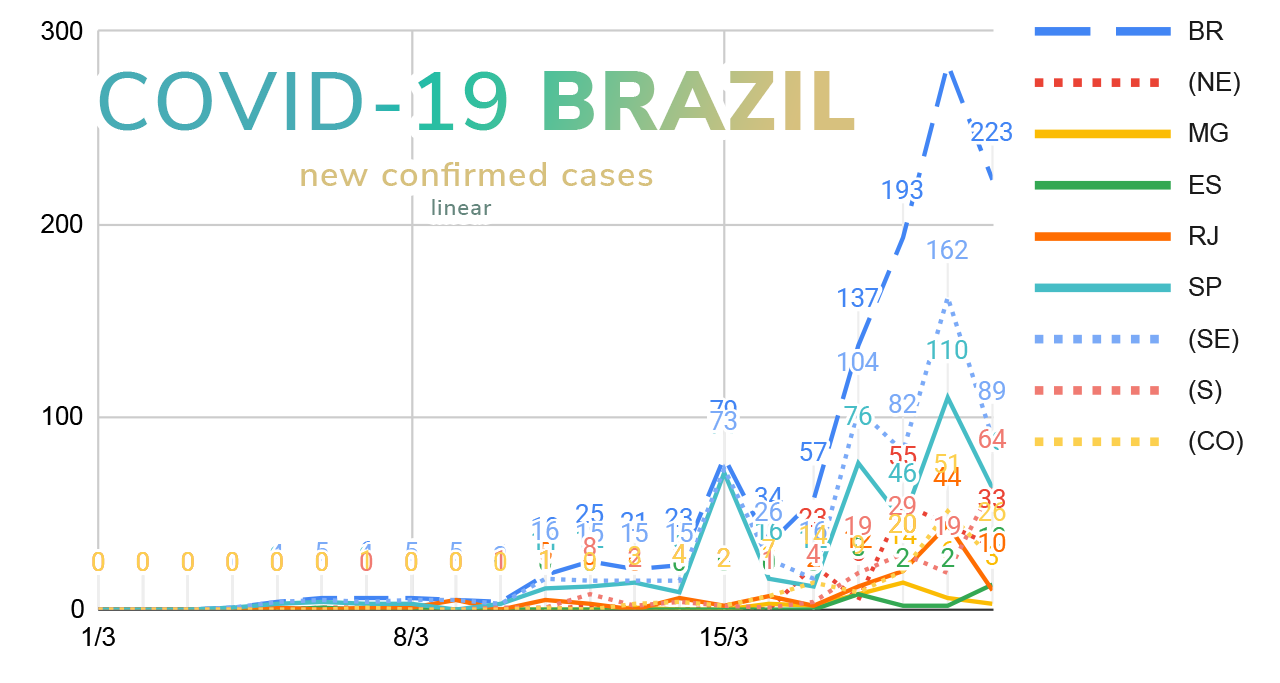
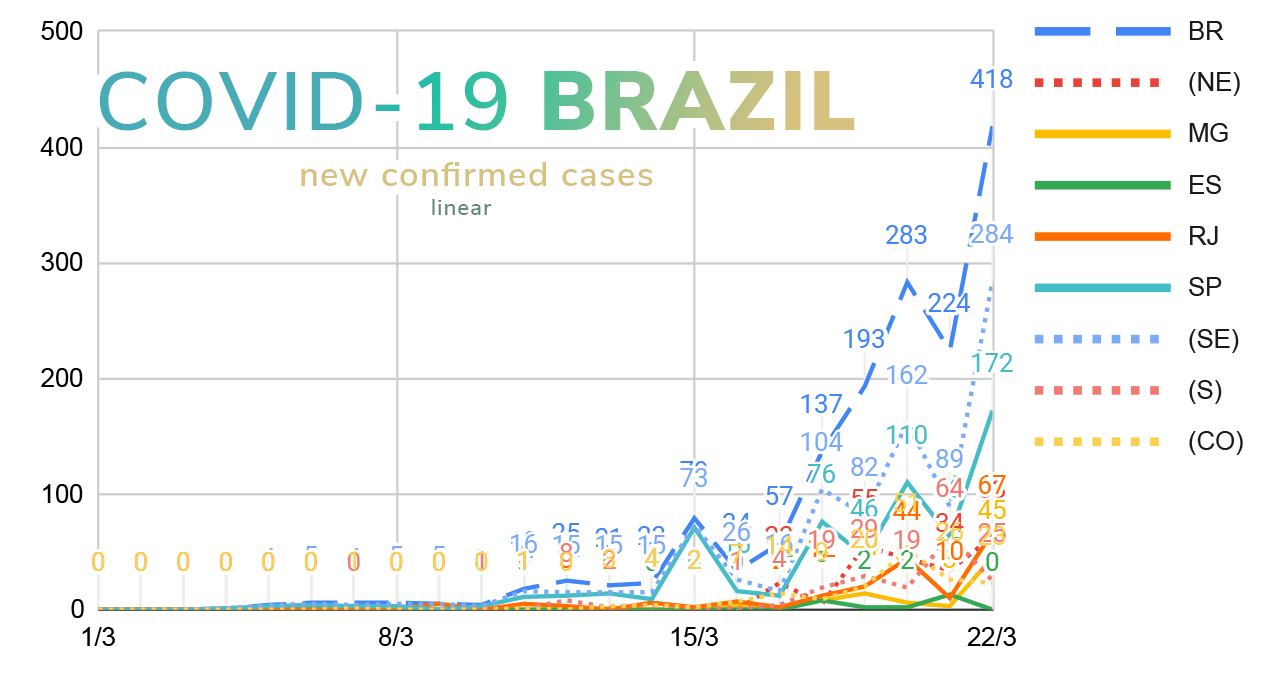
chore: Update charts

diff --git a/README.md b/README.md
@@ -1,6 +1,6 @@
 # COVID-19 Brazil - time series data
 
-<kbd>Latest: 22/03/2020</kbd> source: [Ministério da Saúde](http://plataforma.saude.gov.br/novocoronavirus/) official announcements
+<kbd>Latest: 22/03/2020 16:00 (Brasilia Standard Time)</kbd> source: [Ministério da Saúde](http://plataforma.saude.gov.br/novocoronavirus/) official announcements
 
 ### Confirmed Cases (linear)
 ![Confirmed Linear Chart](/docs/confirmed-linear.png)
